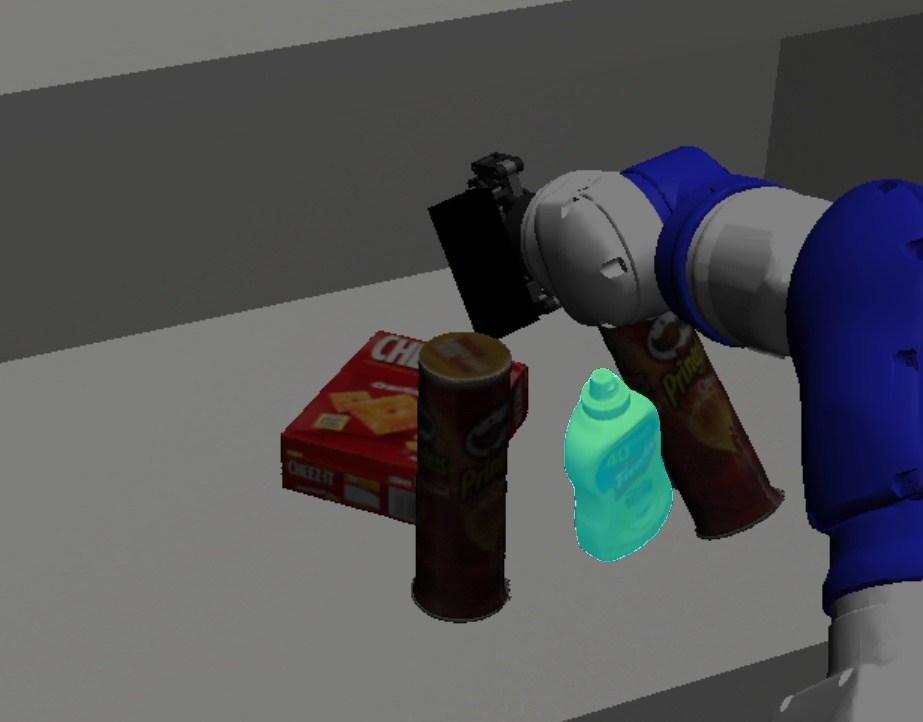
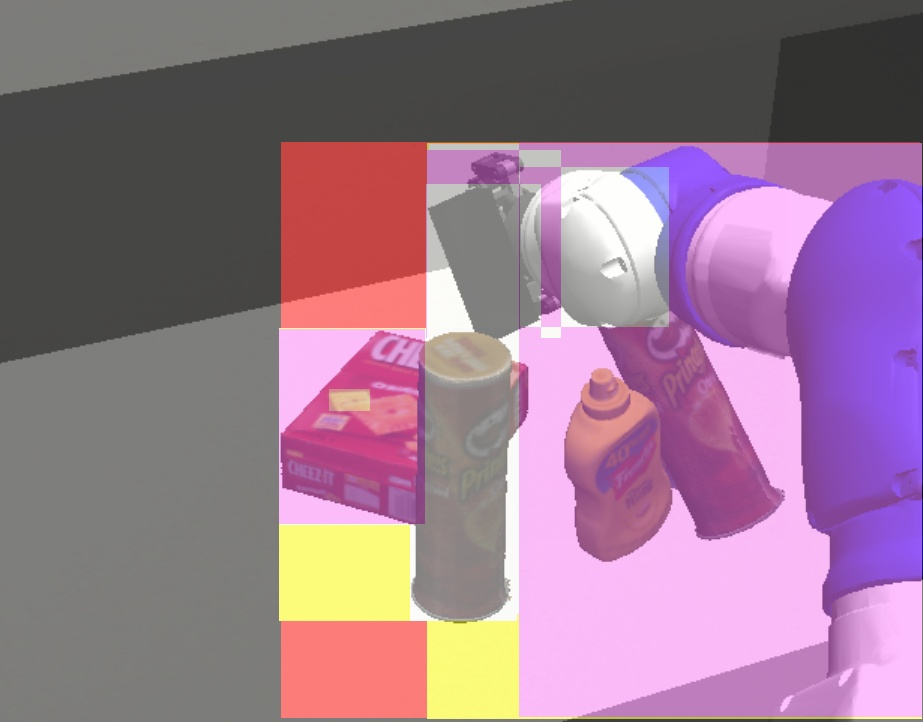
boxes on right now to debug

diff --git a/client_gsam.py b/client_gsam.py
@@ -6,6 +6,7 @@ import cv2
 import json
 import time
 import random
+from pathlib import Path
 
 def main():
     context = zmq.Context()
@@ -16,12 +17,17 @@ def main():
     print("Client connected")
 
     num_pics=1#3
-    send_string = "mustard bottle. red can. box. red can tall. robot arm. shelf."#"car."
+    send_string = "Object." #"wares. shapes. objects. items. products. inventory."
+    #"car." #mustard bottle. green can. black box. #household object. #"cracker box. pringles can. mustard bottle. robot arm. robot gripper."
     do_not_track=True
-    for o in range(1, num_pics+1):
+    #for o in range(1, num_pics+1):
+    png_dir = Path("./test_segmentation_images/")
+    o=-1
+    for image_path in png_dir.glob("*.png"):
+        o+=1
         t0 = time.time()
         #image_path = f"0000{o}.jpg"
-        image_path = f"grasping1.png"
+        #image_path = "0005-color.jpg" #"d455_color.jpg" #"0005-color.jpg" #"d455_color.jpg" #"seg_overlay_1.png" #"test_depth_accuracy.png"
 
         #socket.send_string("car.") #Make sure to use send_string
 
@@ -48,6 +54,12 @@ def main():
         masks = np.frombuffer(mask_bytes, dtype=metadata["dtype"]).reshape(metadata["shape"])
         print("time took to do entire one image", time.time() - t0)
 
+        #Boxes
+        box_metadata = json.loads(message_parts[2].decode())
+        box_bytes = message_parts[3]
+        boxes = np.frombuffer(box_bytes, dtype=box_metadata["dtype"]).reshape(box_metadata["shape"]) #[x0, y0, x1, y1] format
+        print("boxes", boxes)
+
         #Saving images to verify this worked
         # img = cv2.imread(image_path)
         # for mask in masks:
@@ -61,35 +73,62 @@ def main():
         #         colored_mask[:, :, c] = mask * color[c]
         #     img = cv2.addWeighted(img, 0.5, colored_mask, 0.5, 0)
         # cv2.imwrite(f"outputfromclient0000{o}.jpg", img)
-        img = cv2.imread(image_path)
-        overlay = np.zeros_like(img, dtype=np.uint8)  # Combined overlay
+        for j in range(2):
+            img = cv2.imread(image_path)
+            overlay = np.zeros_like(img, dtype=np.uint8)  # Combined overlay
 
-        for mask in masks:
-            mask = (mask > 0.5).astype(np.uint8)
-            bold_colors = [
-                (255, 0, 0),    # Red
-                (0, 255, 0),    # Green
-                (0, 0, 255),    # Blue
-                (255, 255, 0),  # Yellow
-                (255, 0, 255),  # Magenta
-                (0, 255, 255),  # Cyan
-                (255, 128, 0),  # Orange
-            ]
-            color = np.array(random.choice(bold_colors), dtype=np.uint8)
-            colored_mask = np.zeros_like(img, dtype=np.uint8)
+            if j == 1:
+                masks = []
+                img_height, img_width = img.shape[:2]
+                for box in boxes:
+                    x0, y0, x1, y1 = map(int, box)
+                    mask = np.zeros((img_height, img_width), dtype=np.uint8)
+                    mask[y0:y1, x0:x1] = 1
+                    masks.append(mask)
             
-            for c in range(3):
-                colored_mask[:, :, c] = mask * color[c]
+            i = -1
+            for mask in masks:
+                i += 1
+                mask = (mask > 0.5).astype(np.uint8)
+                bold_colors = [
+                    (255, 0, 0),      # Red
+                    (0, 255, 0),      # Green
+                    (0, 0, 255),      # Blue
+                    (255, 255, 0),    # Yellow
+                    (255, 0, 255),    # Magenta
+                    (0, 255, 255),    # Cyan
+                    (255, 128, 0),    # Orange
+                    (128, 0, 255),    # Purple
+                    (0, 128, 255),    # Light Blue
+                    (128, 255, 0),    # Lime
+                    (255, 0, 128),    # Pink
+                ]
+                color = np.array(random.choice(bold_colors), dtype=np.uint8)
+
+                if i < len(bold_colors):
+                    color = np.array(bold_colors[i], dtype=np.uint8)
+                else:
+                    color = tuple(np.random.randint(0, 256, size=3).tolist())
+                    color = np.array(color, dtype=np.uint8)
+                colored_mask = np.zeros_like(img, dtype=np.uint8)
+                
+                for c in range(3):
+                    colored_mask[:, :, c] = mask * color[c]
+                
+                overlay = np.where(mask[..., None], overlay + colored_mask, overlay)
+
+            if j == 1:
+                for box in boxes:
+                    x0, y0, x1, y1 = map(int, box)
+                    cv2.rectangle(overlay, (x0, y0), (x1, y1), color=(0, 0, 0), thickness=2)
+
+            # Clip values to avoid overflow after summation
+            overlay = np.clip(overlay, 0, 255)
+
+            # Blend once at the end
+            blended = cv2.addWeighted(img, 0.5, overlay, 0.5, 0)
             
-            overlay = np.where(mask[..., None], overlay + colored_mask, overlay)
-
-        # Clip values to avoid overflow after summation
-        overlay = np.clip(overlay, 0, 255)
-
-        # Blend once at the end
-        blended = cv2.addWeighted(img, 0.5, overlay, 0.5, 0)
-
-        cv2.imwrite(f"outputfromclient0000{o}.jpg", blended)
+            cv2.imwrite(f"./result_images/outputfromclient0000{o}{j}.jpg", blended)
 
 if __name__ == "__main__":
     main()

diff --git a/server_gsam.py b/server_gsam.py
@@ -12,11 +12,44 @@ from utils.video_utils import create_video_from_images
 
 import io
 from sam2.sam2_video_predictor import _load_img_bytes_as_tensor, load_single_image
+from torchvision.ops import nms
 
 """
 For the first step we are running GroundingDINO on the first frame and setting the inference frame up.
 This means we need the processor, grounding_model, video_predictor, text prompt, the input image (to be prepared)
 """
+def apply_nms(boxes, scores, iou_threshold=0.7):
+    keep_indices = nms(boxes, scores, iou_threshold)
+    return boxes[keep_indices], scores[keep_indices], keep_indices
+
+
+def compute_area(box):
+    x0, y0, x1, y1 = box
+    return max(0, x1 - x0) * max(0, y1 - y0)
+
+def intersection_area(boxA, boxB):
+    x0 = max(boxA[0], boxB[0])
+    y0 = max(boxA[1], boxB[1])
+    x1 = min(boxA[2], boxB[2])
+    y1 = min(boxA[3], boxB[3])
+    return max(0, x1 - x0) * max(0, y1 - y0)
+
+def filter_boxes(boxes, threshold=0.9, max_inside=3):
+    keep = []
+    for i, A in enumerate(boxes):
+        count = 0
+        area_A = compute_area(A)
+        for j, B in enumerate(boxes):
+            if i == j:
+                continue
+            area_B = compute_area(B)
+            inter = intersection_area(A, B)
+            if inter / area_B >= threshold:
+                count += 1
+        if count <= max_inside:
+            keep.append(A)
+    return np.array(keep)
+
 def first_step(processor, grounding_model, video_predictor, image_predictor, device, text, raw_image_inp, image_inp, video_height, video_width):
 
     # setup the input image and text prompt for SAM 2 and Grounding DINO
@@ -47,8 +80,8 @@ def first_step(processor, grounding_model, video_predictor, image_predictor, dev
     results = processor.post_process_grounded_object_detection(
         outputs,
         inputs.input_ids,
-        box_threshold=0.5,
-        text_threshold=0.5,
+        box_threshold=0.2,
+        text_threshold=0.7,
         target_sizes=[image.size[::-1]]
     )
 
@@ -62,6 +95,11 @@ def first_step(processor, grounding_model, video_predictor, image_predictor, dev
     if len(input_boxes) == 0:
         print("target object not detected")
         return None, None
+    #non_overlapping_boxes, scores_torch, _ = apply_nms(results[0]["boxes"], results[0]["scores"])
+    #scores = scores_torch.cpu().numpy()
+    #input_boxes = non_overlapping_boxes.cpu().numpy()
+    input_boxes = filter_boxes(input_boxes)
+    print("after overlap filter boxes", len(input_boxes))
 
     # prompt SAM 2 image predictor to get the mask for the object
     masks, scores, logits = image_predictor.predict(
@@ -139,7 +177,7 @@ def first_step(processor, grounding_model, video_predictor, image_predictor, dev
         masks = np.concatenate(masks, axis=0)
 
         #There is only one value in the loop so return here
-        return masks, inference_state
+        return masks, inference_state, input_boxes
 
 #Just concatenate the frame to the batch dimension of the inference state and increment the number of frames
 def update_inference_state(inference_state, frame, video_predictor):
@@ -219,6 +257,7 @@ def main():
     print("Server is ready...")
     inference_state = None
     target_text = None
+    input_boxes = None
     while True:
         print("Waiting for message")
         message_parts = socket.recv_multipart(flags=0) #Receiving text and image bytes
@@ -235,7 +274,7 @@ def main():
             target_text = text_data
         if ground or (inference_state is None and target_text is not None):
             print("first step")
-            masks, inference_state = first_step(processor, grounding_model, video_predictor, image_predictor, device, target_text, image_pil, image_prepared, video_height, video_width)
+            masks, inference_state, input_boxes = first_step(processor, grounding_model, video_predictor, image_predictor, device, target_text, image_pil, image_prepared, video_height, video_width)
         else:
             masks = None
             if inference_state is not None:
@@ -258,8 +297,17 @@ def main():
         
         metadata_json = json.dumps(metadata)
 
+        input_boxes_bytes = input_boxes.tobytes()
+        input_boxes_dtype = str(input_boxes.dtype)
+        input_boxes_shape = input_boxes.shape
+        metadata_input_boxes = {
+            "dtype": input_boxes_dtype,
+            "shape": input_boxes_shape
+        }
+        json_input_boxes = json.dumps(metadata_input_boxes)
+
         #Serialized mask back with its metadata first
-        send_message_parts = [metadata_json.encode(), mask_bytes]
+        send_message_parts = [metadata_json.encode(), mask_bytes, json_input_boxes.encode(), input_boxes_bytes]
         #socket.send_json(metadata)
         #socket.send(mask_bytes) 
         socket.send_multipart(send_message_parts)
